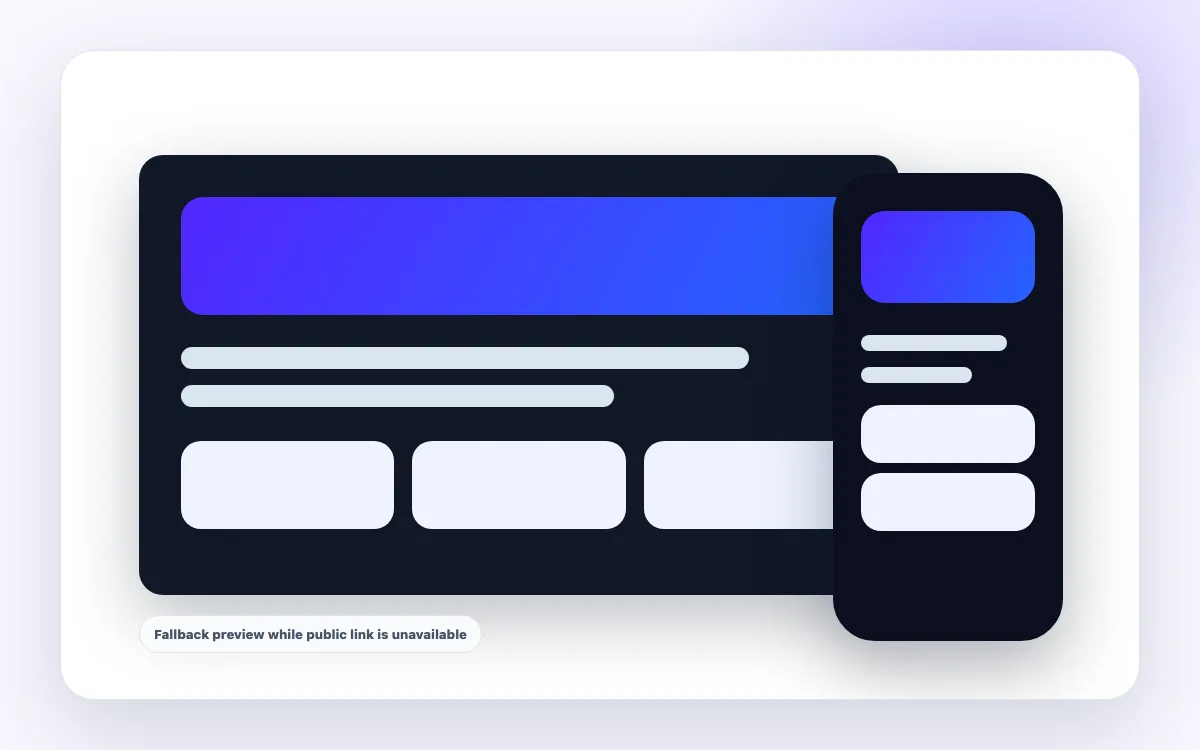
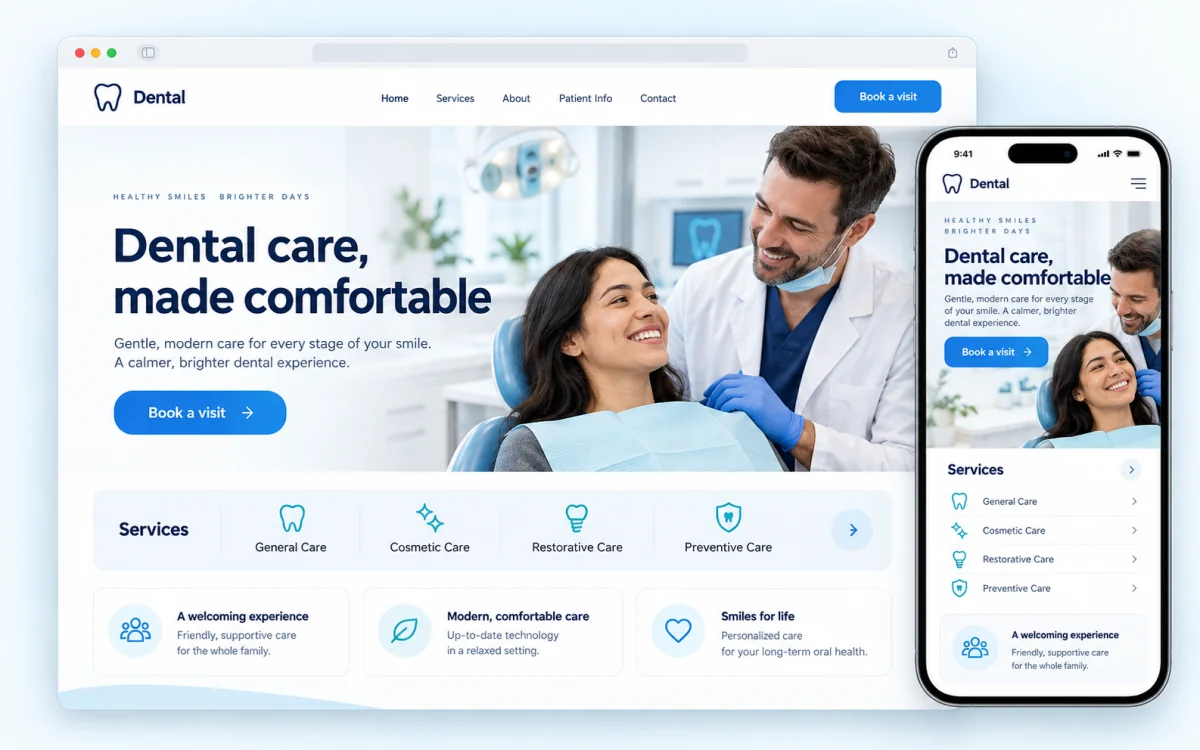
fix: refresh portfolio media and live links

diff --git a/src/lib/publicPortfolio.js b/src/lib/publicPortfolio.js
@@ -29,10 +29,10 @@ function labelFor(project) {
   return 'Agency Demo';
 }
 
-export function normalizePublicProject(project = {}) {
+export function normalizePublicProject(project = {}, curatedProject = null) {
   if (!project._id && project.classification) return project;
   const image = normalizePublicMediaUrl(project.thumbnail || project.mockupImages?.[0]?.url || '/projects/project-fallback.svg');
-  return {
+  const normalized = {
     ...project,
     id: project.slug || project._id,
     slug: project.slug || project._id,
@@ -48,10 +48,31 @@ export function normalizePublicProject(project = {}) {
     overview: project.projectOverview || project.fullDescription || project.summary || '',
     result: project.resultSummary || '',
   };
+
+  if (!curatedProject) return normalized;
+
+  return {
+    ...curatedProject,
+    ...normalized,
+    stack: normalized.stack.length ? normalized.stack : curatedProject.stack,
+    // Curated release-tested destinations win over stale API records.
+    live: curatedProject.live || normalized.live,
+    repo: normalized.repo || curatedProject.repo,
+    services: normalized.services.length ? normalized.services : curatedProject.services,
+    features: normalized.features.length ? normalized.features : curatedProject.features,
+    overview: normalized.overview || curatedProject.overview,
+    result: normalized.result || curatedProject.result,
+    // Curated local captures are release-tested and must not be replaced by stale API hosts.
+    thumb: curatedProject.thumb || image,
+    imageAlt: curatedProject.imageAlt || normalized.imageAlt,
+  };
 }
 
 export function normalizePublicProjects(items = []) {
-  const normalized = (Array.isArray(items) ? items : []).map(normalizePublicProject);
+  const curatedBySlug = new Map(fallbackPublicProjects.map((project) => [project.slug, project]));
+  const normalized = (Array.isArray(items) ? items : []).map((project) =>
+    normalizePublicProject(project, curatedBySlug.get(project.slug || project._id)),
+  );
   const publishedSlugs = new Set(normalized.map((project) => project.slug).filter(Boolean));
   const localOnlyProjects = fallbackPublicProjects.filter(
     (project) => !publishedSlugs.has(project.slug),

diff --git a/src/data/projects.js b/src/data/projects.js
@@ -57,7 +57,7 @@ export const projects = [
     stack: ["Wix", "Local SEO", "Responsive Design"],
     live: "",
     thumb: "/projects/mockups/dazzling-smile-dental.webp",
-    imageAlt: "Dazzling Smile Dental website shown in desktop and mobile mockup frames",
+    imageAlt: "Fictional dental clinic website concept shown in responsive desktop and mobile frames",
     featured: true,
     services: ["Wix website setup", "Local SEO structure", "Responsive review"],
     features: ["Service overview", "Local SEO positioning", "Trust-first page structure"],
@@ -209,7 +209,7 @@ export const projects = [
     websiteType: "School Website",
     platform: "React",
     stack: ["React", "Vite", "React Router", "Lucide React"],
-    live: "https://nexuseps.vercel.app/",
+    live: "https://nexuseps.com/",
     repo: "https://github.com/MSPixelPulseAgency/nexus-website",
     thumb: "/projects/mockups/nexus-education-private-school.webp",
     imageAlt: "Nexus Education Private School website shown in desktop and mobile layouts",
@@ -231,7 +231,7 @@ export const projects = [
     websiteType: "Business Website",
     platform: "React",
     stack: ["React", "Vite", "Responsive Design"],
-    live: "https://unityhope.vercel.app",
+    live: "https://uhhomehealth.com/",
     repo: "https://github.com/MSPixelPulseAgency/unity-and-hope-home-care",
     thumb: "/projects/mockups/unity-and-hope-home-care.webp",
     imageAlt: "Unity and Hope Home Care website shown in desktop and mobile layouts",
@@ -278,7 +278,7 @@ export const projects = [
     live: "",
     repo: "https://github.com/MSPixelPulseAgency/nexus-moodle-lms",
     thumb: "/projects/mockups/nexus-moodle-lms.webp",
-    imageAlt: "Nexus Education Moodle LMS technical environment preview",
+    imageAlt: "Fictional learning portal dashboard shown in responsive desktop and mobile frames",
     featured: false,
     services: ["LMS engineering", "Environment automation", "Migration planning"],
     features: ["Persistent service volumes", "Backup and restore workflow", "Redis and Mailpit services"],

diff --git a/src/pages/ProjectDetail.jsx b/src/pages/ProjectDetail.jsx
@@ -8,6 +8,7 @@ import ContactActions from "@/components/ContactActions.jsx";
 import DemoOffer from "@/components/DemoOffer.jsx";
 import { projectSeo } from "@/data/seoPages.js";
 import { servicePathForLabel } from "@/data/servicePages.js";
+import { applyProjectImageFallback } from "@/lib/projectImageFallback.js";
 
 export default function ProjectDetail() {
   const { id } = useParams();
@@ -126,15 +127,13 @@ export default function ProjectDetail() {
             <img
               src={project.thumb}
               alt={project.imageAlt || `${project.title} website screenshot`}
-              className="aspect-[16/10] w-full object-cover"
-              width="1440"
-              height="900"
-              onError={(event) => {
-                if (!event.currentTarget.dataset.fallback) {
-                  event.currentTarget.dataset.fallback = "true";
-                  event.currentTarget.src = "/projects/project-fallback.svg";
-                }
-              }}
+              className="aspect-[16/10] w-full object-cover object-top"
+              decoding="async"
+              fetchPriority="high"
+              sizes="(min-width: 1024px) 46vw, 100vw"
+              width="1200"
+              height="750"
+              onError={(event) => applyProjectImageFallback(event, project.title)}
             />
           </div>
         </div>

diff --git a/src/pages/Home.jsx b/src/pages/Home.jsx
@@ -27,6 +27,7 @@ import ContactActions from "@/components/ContactActions.jsx";
 import AgencyInterfacePreview from "@/components/AgencyInterfacePreview.jsx";
 import DemoOffer from "@/components/DemoOffer.jsx";
 import { seoPages } from "@/data/seoPages.js";
+import { applyProjectImageFallback } from "@/lib/projectImageFallback.js";
 
 const services = [
   {
@@ -406,12 +407,15 @@ function ProjectSection({ eyebrow, title, projects: items, dark }) {
                 </span>
                 <span className="project-preview-media">
                   <img
-                    className="aspect-[16/10] w-full object-cover transition duration-300 group-hover:scale-[1.03]"
+                    className="aspect-[16/10] w-full object-cover object-top transition duration-300 group-hover:scale-[1.03]"
                     src={project.thumb}
                     alt={project.imageAlt || project.title}
                     loading="lazy"
-                    width="1440"
-                    height="900"
+                    decoding="async"
+                    sizes="(min-width: 768px) 33vw, 100vw"
+                    width="1200"
+                    height="750"
+                    onError={(event) => applyProjectImageFallback(event, project.title)}
                   />
                 </span>
               </Link>

diff --git a/src/lib/publicPortfolio.test.js b/src/lib/publicPortfolio.test.js
@@ -42,7 +42,7 @@ test("normalizes API portfolio fields into the public case-study shape", () => {
   assert.equal(project.repo, "https://github.com/example/demo");
 });
 
-test("keeps API records authoritative while appending missing curated local demos", () => {
+test("keeps API content authoritative while preserving release-tested local captures", () => {
   const projects = normalizePublicProjects([{
     _id: "canstem-api",
     slug: "canstem-education",
@@ -54,6 +54,18 @@ test("keeps API records authoritative while appending missing curated local demo
   assert.equal(
     projects.find((project) => project.slug === "canstem-education")?.title,
     "CanSTEM from API",
+  );
+  assert.equal(
+    projects.find((project) => project.slug === "canstem-education")?.thumb,
+    "/projects/mockups/canstem-education.webp",
+  );
+  assert.equal(
+    normalizePublicProjects([{
+      _id: "nexus-api",
+      slug: "nexus-education-private-school",
+      liveUrl: "https://nexuseps.vercel.app/",
+    }]).find((project) => project.slug === "nexus-education-private-school")?.live,
+    "https://nexuseps.com/",
   );
   assert.equal(projects.filter((project) => project.slug === "canstem-education").length, 1);
   assert.equal(projects.find((project) => project.slug === "wedding-and-events")?.classification, "demo");

diff --git a/src/pages/Projects.jsx b/src/pages/Projects.jsx
@@ -14,6 +14,7 @@ import {
   LuSparkles,
 } from "react-icons/lu";
 import { seoPages } from "@/data/seoPages.js";
+import { applyProjectImageFallback } from "@/lib/projectImageFallback.js";
 
 const allOption = "All";
 
@@ -57,16 +58,13 @@ function ProjectCard({ project, isDark }) {
           <img
             src={project.thumb}
             alt={project.imageAlt || `${project.title} website preview`}
-            className="h-full w-full object-cover transition duration-300 group-hover:scale-105"
+            className="h-full w-full object-cover object-top transition duration-300 group-hover:scale-105"
             loading="lazy"
-            width="1440"
-            height="900"
-            onError={(event) => {
-              if (!event.currentTarget.dataset.fallback) {
-                event.currentTarget.dataset.fallback = "true";
-                event.currentTarget.src = "/projects/project-fallback.svg";
-              }
-            }}
+            decoding="async"
+            sizes="(min-width: 1280px) 384px, (min-width: 768px) 50vw, 100vw"
+            width="1200"
+            height="750"
+            onError={(event) => applyProjectImageFallback(event, project.title)}
           />
         </div>
       </Link>

diff --git a/src/lib/projectImageFallback.js b/src/lib/projectImageFallback.js
@@ -1,0 +1,14 @@
+const PROJECT_FALLBACK_SRC = "/projects/project-fallback.svg";
+
+export function applyProjectImageFallback(event, projectTitle = "Portfolio project") {
+  const image = event.currentTarget;
+
+  if (image.dataset.fallbackApplied === "true") {
+    image.hidden = true;
+    return;
+  }
+
+  image.dataset.fallbackApplied = "true";
+  image.src = PROJECT_FALLBACK_SRC;
+  image.alt = `${projectTitle} portfolio preview fallback`;
+}
